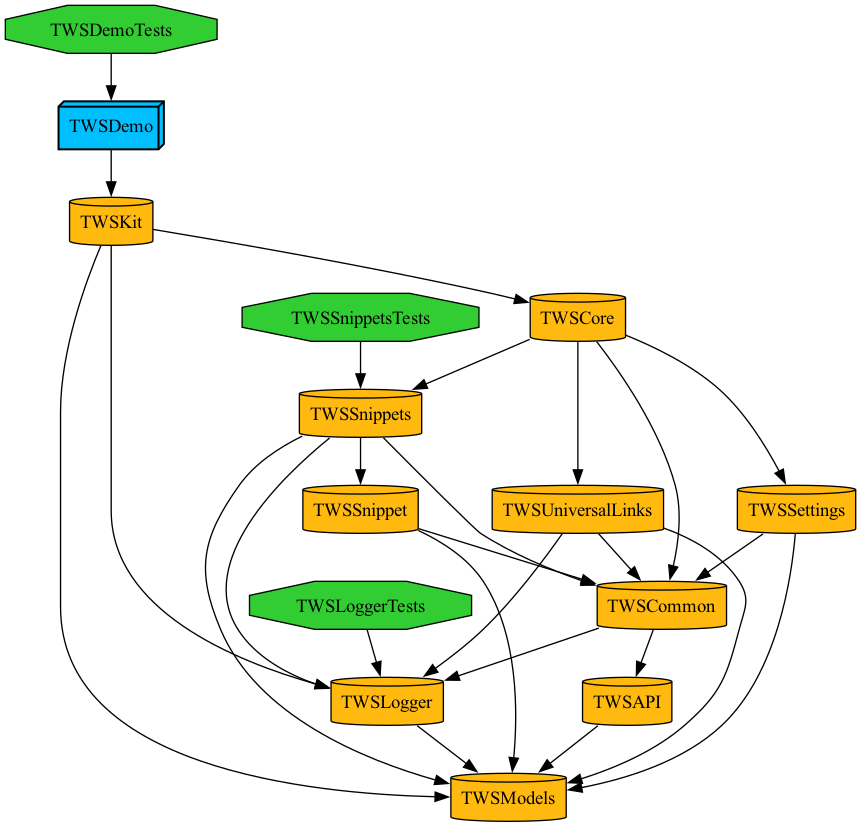
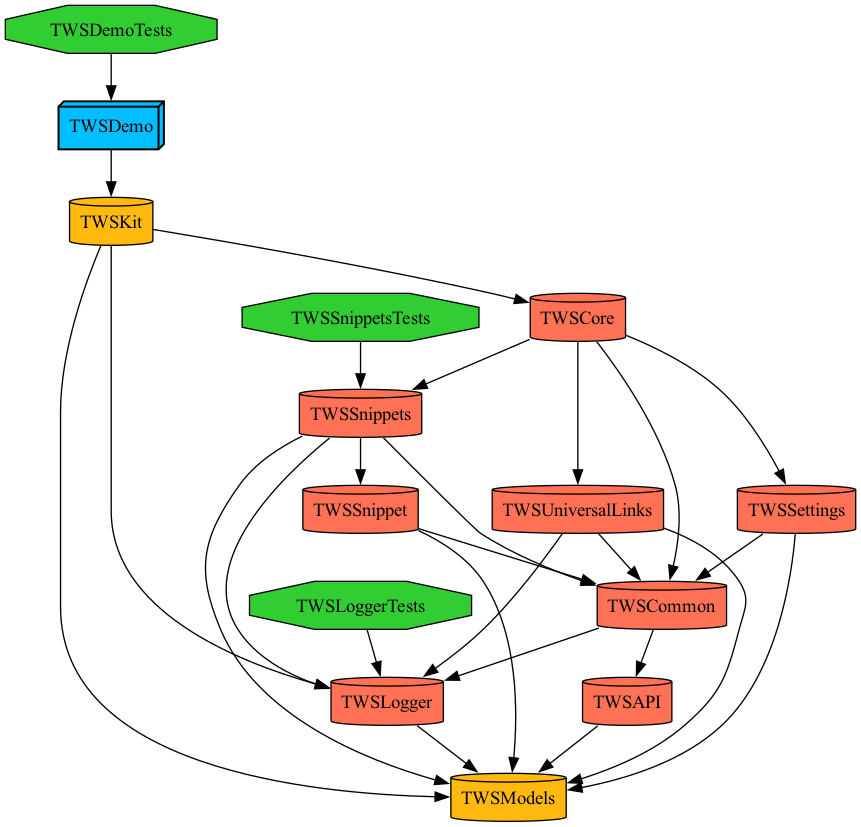
[TWS-61]: feat: [iOS] Create XCFramework which can be used by clients

diff --git a/Project.swift b/Project.swift
@@ -83,7 +83,7 @@ let project = Project(
         .target(
             name: "TWSCore",
             destinations: .iOS,
-            product: .framework,
+            product: .staticFramework,
             bundleId: "com.inova.twscore",
             deploymentTargets: .iOS(deploymentTarget()),
             sources: ["TWSCore/Sources/**"],
@@ -104,7 +104,7 @@ let project = Project(
         .target(
             name: "TWSSnippets",
             destinations: .iOS,
-            product: .framework,
+            product: .staticFramework,
             bundleId: "com.inova.twssnippets",
             deploymentTargets: .iOS(deploymentTarget()),
             sources: ["TWSSnippets/Sources/**"],
@@ -145,7 +145,7 @@ let project = Project(
         .target(
             name: "TWSSnippet",
             destinations: .iOS,
-            product: .framework,
+            product: .staticFramework,
             bundleId: "com.inova.twssnippet",
             deploymentTargets: .iOS(deploymentTarget()),
             sources: ["TWSSnippet/Sources/**"],
@@ -164,7 +164,7 @@ let project = Project(
         .target(
             name: "TWSSettings",
             destinations: .iOS,
-            product: .framework,
+            product: .staticFramework,
             bundleId: "com.inova.twssettings",
             deploymentTargets: .iOS(deploymentTarget()),
             sources: ["TWSSettings/Sources/**"],
@@ -200,7 +200,7 @@ let project = Project(
         .target(
             name: "TWSAPI",
             destinations: .iOS,
-            product: .framework,
+            product: .staticFramework,
             bundleId: "com.inova.twsapi",
             deploymentTargets: .iOS(deploymentTarget()),
             sources: ["TWSAPI/Sources/**"],
@@ -218,7 +218,7 @@ let project = Project(
         .target(
             name: "TWSCommon",
             destinations: .iOS,
-            product: .framework,
+            product: .staticFramework,
             bundleId: "com.inova.twscommon",
             deploymentTargets: .iOS(deploymentTarget()),
             sources: ["TWSCommon/Sources/**"],
@@ -239,7 +239,7 @@ let project = Project(
         .target(
             name: "TWSLogger",
             destinations: .iOS,
-            product: .framework,
+            product: .staticFramework,
             bundleId: "com.inova.twslogger",
             deploymentTargets: .iOS(deploymentTarget()),
             infoPlist: .extendingDefault(with: loggerInfoPlist()),
@@ -278,7 +278,7 @@ let project = Project(
         .target(
             name: "TWSUniversalLinks",
             destinations: .iOS,
-            product: .framework,
+            product: .staticFramework,
             bundleId: "com.inova.twsuniversallinks",
             deploymentTargets: .iOS(deploymentTarget()),
             sources: ["TWSUniversalLinks/Sources/**"],

diff --git a/TWSKit/Sources/TWSKit.swift b/TWSKit/Sources/TWSKit.swift
@@ -1,7 +1,6 @@
 import Foundation
 import SwiftUI
 import TWSModels
-import OSLog
 @_implementationOnly import TWSCore
 @_implementationOnly import ComposableArchitecture
 @_implementationOnly import TWSLogger
@@ -75,7 +74,7 @@ public class TWSManager {
         store.send(.snippets(.business(.set(source: source))))
     }
 
-    public func getLogsReport(reportFiltering: (OSLogEntryLog) -> String) async throws -> URL? {
+    public func getLogsReport(reportFiltering: @Sendable @escaping (TWSLogEntryLog) -> String) async throws -> URL? {
         precondition(Thread.isMainThread, "`getLogsReport(reportFiltering:)` can only be called on main thread")
 
         let bundleId = Bundle.main.bundleIdentifier
@@ -84,7 +83,10 @@ public class TWSManager {
             return try await logReporter.generateReport(
                 bundleId: bundleId,
                 date: initDate.addingTimeInterval(-60),
-                reportFiltering: reportFiltering
+                reportFiltering: { input in
+                    let log = TWSLogEntryLog(from: input)
+                    return reportFiltering(log)
+                }
             )
         }
         throw LoggerError.bundleIdNotAvailable

diff --git a/TWSDemo/Sources/Settings/SettingsView.swift b/TWSDemo/Sources/Settings/SettingsView.swift
@@ -15,10 +15,6 @@ struct SettingsView: View {
     @State var viewModel = SettingsViewModel()
     @Environment(TWSViewModel.self) private var twsViewModel
 
-    private func logsFormatter(entry: OSLogEntryLog) -> String {
-        return "\(entry.date.description) - \(entry.category): \(entry.composedMessage)"
-    }
-
     var body: some View {
         NavigationView {
             Form {
@@ -67,7 +63,9 @@ struct SettingsView: View {
                             viewModel.logsGenerationInProgress = true
                             do {
                                 let reportUrl = try await twsViewModel.manager.getLogsReport(
-                                    reportFiltering: logsFormatter
+                                    reportFiltering: {
+                                        "\($0.date.description) - \($0.category): \($0.composedMessage)"
+                                    }
                                 )
                                 shareLogsReport(reportUrl)
                                 viewModel.logsGenerationInProgress = false

diff --git a/Tuist/Package.swift b/Tuist/Package.swift
@@ -6,30 +6,7 @@ import PackageDescription
     import ProjectDescriptionHelpers
 
     let packageSettings = PackageSettings(
-        productTypes: [
-
-            // TCA
-
-            "ComposableArchitecture": .framework,
-            "Dependencies": .framework,
-            "Clocks": .framework,
-            "ConcurrencyExtras": .framework,
-            "CombineSchedulers": .framework,
-            "IdentifiedCollections": .framework,
-            "OrderedCollections": .framework,
-            "_CollectionsUtilities": .framework,
-            "DependenciesMacros": .framework,
-            "SwiftUINavigationCore": .framework,
-            "Perception": .framework,
-            "CasePaths": .framework,
-            "CustomDump": .framework,
-            "XCTestDynamicOverlay": .framework,
-
-            // URL Routing
-
-            "URLRouting": .framework,
-            "Parsing": .framework
-        ],
+        productTypes: [:],
         baseSettings: .settings(
             configurations: [
                 .debug(name: "Debug"),

diff --git a/TWSKit/Sources/Models/TWSLogEntryLog.swift b/TWSKit/Sources/Models/TWSLogEntryLog.swift
@@ -1,0 +1,23 @@
+//
+//  TWSLogEntryLog.swift
+//  TWSKit
+//
+//  Created by Miha Hozjan on 2. 07. 24.
+//  Copyright © 2024 Inova IT, d.o.o. All rights reserved.
+//
+
+import Foundation
+import OSLog
+
+public struct TWSLogEntryLog: Sendable {
+
+    public let date: Date
+    public let category: String
+    public let composedMessage: String
+
+    init(from log: OSLogEntryLog) {
+        date = log.date
+        category = log.category
+        composedMessage = log.composedMessage
+    }
+}
